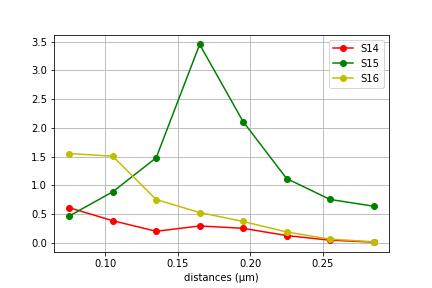
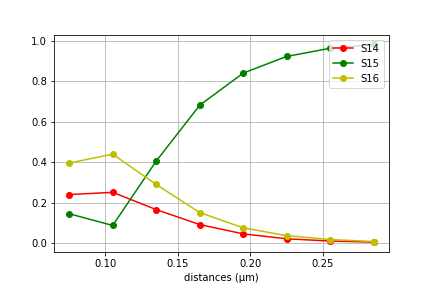
bug consertado - fontes mudando de lugar

Changed region(s): [[0.0602, 0.125, 0.9028, 0.875], [0.8125, 0.125, 0.8727, 0.1875]]

diff --git a/3BS/triBS_ex.py b/3BS/triBS_ex.py
@@ -12,7 +12,7 @@ d = 0.013        # branch separation
 default_d = 0.2 # branch separition in GDS
 
 
-gdsII_file = 'triBS3.gds'
+gdsII_file = 'triBS1.gds'
 CELL_LAYER = 0
 PORT1_LAYER = 1
 PORT2_LAYER = 2
@@ -64,14 +64,41 @@ src_vol = mp.GDSII_vol(gdsII_file, SOURCE_LAYER, si_zmin, si_zmax)
 
 # displace upper and lower branches of coupler (as well as source and flux regions)
 
+p1a=p1.center
+p2a=p2.center
+p3a=p3.center
+p4a=p4.center
+p5a=p5.center
+p6a=p6.center
+
+
+
 if d != default_d:
     delta_y=d-default_d
     delta = mp.Vector3(y=delta_y)
+    
+    #position detectores
     p1.center += delta
     p3.center -= delta
     p4.center += delta
     p6.center -= delta
-    src_vol.center += delta
+    
+    #position source 
+    
+    if (src_vol.center.y>0):
+            src_vol.center+=delta
+            
+    elif (src_vol.center.y<0):
+        src_vol.center -= delta
+    
+    else: 
+        src_vol.center=src_vol.center
+        
+    
+    
+    
+    #position branches
+    
     cell.size += 2*delta
     for np in range(len(lower_branch)):
         lower_branch[np].center -= delta
@@ -121,7 +148,16 @@ p4_coeff = sim.get_eigenmode_coefficients(mode4, [1], eig_parity=mp.NO_PARITY if
 p5_coeff = sim.get_eigenmode_coefficients(mode5, [1], eig_parity=mp.NO_PARITY if three_d else mp.EVEN_Y+mp.ODD_Z).alpha[0,0,0]
 p6_coeff = sim.get_eigenmode_coefficients(mode6, [1], eig_parity=mp.NO_PARITY if three_d else mp.EVEN_Y+mp.ODD_Z).alpha[0,0,0]
 
-norma= p3_coeff
+if (src_vol.center.y>0):
+     norma= p1_coeff
+            
+elif (src_vol.center.y<0):
+    norma= p3_coeff
+
+else: 
+    norma= p2_coeff
+
+
 p1_trans = abs(p1_coeff)**2/abs(norma)**2
 p2_trans = abs(p2_coeff)**2/abs(norma)**2
 p3_trans = abs(p3_coeff)**2/abs(norma)**2
@@ -157,4 +193,20 @@ plt.imshow(numpy.flipud(numpy.transpose(ez_data)), interpolation='spline36', cma
 plt.axis('off')
 plt.show()
 print("trans: {:.2f}, {:.6f}, {:.6f}, {:.6f}, {:.6f}".format(d,p2_trans,p4_trans,p5_trans, p6_trans))
+
+print(p1.center)
+print(p2.center)
+print(p3.center)
+print(p4.center)
+print(p5.center)
+print(p6.center)
+
+print("antes")
+print(p1a)
+print(p2a)
+print(p3a)
+print(p4a)
+print(p5a)
+print(p6a)
+
 sim.reset_meep()

diff --git a/3BS/for_triBS.py b/3BS/for_triBS.py
@@ -24,7 +24,7 @@ three_d = False # 3d calculation?
   
 
 
-gdsII_file = 'triBS.gds'
+gdsII_file = 'triBS2.gds'
 CELL_LAYER = 0
 PORT1_LAYER = 1
 PORT2_LAYER = 2
@@ -81,11 +81,29 @@ for i in range(p):
     if d != default_d:
         delta_y=d-default_d
         delta = mp.Vector3(y=delta_y)
+        
+        #position detectores
         p1.center += delta
         p3.center -= delta
         p4.center += delta
         p6.center -= delta
-        src_vol.center += delta
+        
+        #position source 
+        
+        if (src_vol.center.y>0):
+                src_vol.center+=delta
+                
+        elif (src_vol.center.y<0):
+            src_vol.center -= delta
+        
+        else: 
+            src_vol.center=src_vol.center
+            
+        
+        
+        
+        #position branches
+        
         cell.size += 2*delta
         for np in range(len(lower_branch)):
             lower_branch[np].center -= delta
@@ -95,6 +113,7 @@ for i in range(p):
             upper_branch[np].center += delta
             for nv in range(len(upper_branch[np].vertices)):
                 upper_branch[np].vertices[nv] += delta
+       
        
     
     geometry = upper_branch+meio_branch+lower_branch
